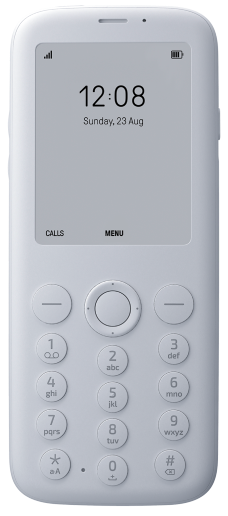
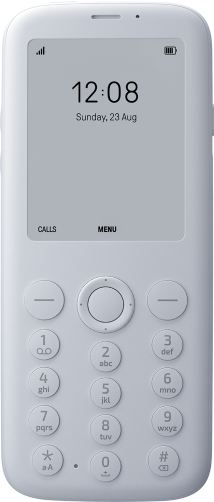
[CP-2162] Replace all Device Image Render - v2

diff --git a/libs/core/discovery-device/components/device-list-item.component.tsx b/libs/core/discovery-device/components/device-list-item.component.tsx
@@ -5,7 +5,7 @@
 
 import React from "react"
 import { defineMessages } from "react-intl"
-import styled from "styled-components"
+import styled, { css } from "styled-components"
 import { FunctionComponent } from "Core/core/types/function-component.interface"
 import { Device } from "Core/device-manager/reducers/device-manager.interface"
 import {
@@ -16,9 +16,7 @@ import {
   transitionTimingFunction,
 } from "Core/core/styles/theming/theme-getters"
 import { DeviceImage } from "Core/overview/components/device-preview/device-image.component"
-import Text, {
-  TextDisplayStyle,
-} from "Core/__deprecated__/renderer/components/core/text/text.component"
+import Text, { TextDisplayStyle } from "Core/__deprecated__/renderer/components/core/text/text.component"
 import { DeviceTestIds } from "Core/overview/components/device-preview/device-preview-test-ids.enum"
 import { intl } from "Core/__deprecated__/renderer/utils/intl"
 import { DeviceType } from "Core/device"
@@ -55,10 +53,7 @@ const Container = styled.div`
   max-width: 34rem;
   border: 0.1rem solid ${borderColor("deviceListSeparator")};
   border-radius: ${borderRadius("medium")};
-  img {
-    max-height: 26.3rem;
-    max-width: 20.5rem;
-  }
+
   &:hover {
     cursor: pointer;
     background-color: ${backgroundColor("main")};
@@ -68,6 +63,22 @@ const Container = styled.div`
       border-color ${transitionTime("quick")}
         ${transitionTimingFunction("smooth")};
   }
+`
+
+export const DeviceImageStyled = styled(DeviceImage)`
+  max-height: 25.4rem;
+  max-width: 20.5rem;
+
+  ${({ deviceType }) => {
+    switch (deviceType) {
+      case DeviceType.MuditaPure:
+        return css`
+          max-height: 25.1rem;
+        `
+      default:
+        return
+    }
+  }}
 `
 
 export const DeviceInfoContainer = styled.div`
@@ -107,7 +118,7 @@ const DeviceListItem: FunctionComponent<DeviceListItemProps> = ({
   return (
     <Container className={className} onClick={() => onDeviceClick(id)}>
       <DeviceImageWrapper>
-        <DeviceImage deviceType={deviceType} />
+        <DeviceImageStyled deviceType={deviceType} />
       </DeviceImageWrapper>
       <DeviceInfoContainer>
         <DeviceInfoDeviceTypeName displayStyle={TextDisplayStyle.Headline4}>

diff --git a/libs/core/overview/components/device-preview/device-image.component.tsx b/libs/core/overview/components/device-preview/device-image.component.tsx
@@ -21,20 +21,21 @@ interface DeviceImageProps {
 export const DeviceImage: FunctionComponent<DeviceImageProps> = ({
   deviceType,
   caseColour,
+  ...props
 }) => {
   if (deviceType === DeviceType.MuditaPure && caseColour === CaseColor.Black) {
-    return <Image src={PureBlackImage} data-testid={DeviceTestIds.PureBlack} />
+    return <Image src={PureBlackImage} data-testid={DeviceTestIds.PureBlack} {...props} />
   }
 
   if (deviceType === DeviceType.MuditaPure) {
-    return <Image src={PureGrayImage} data-testid={DeviceTestIds.PureGray} />
+    return <Image src={PureGrayImage} data-testid={DeviceTestIds.PureGray} {...props}/>
   }
 
   if (deviceType === DeviceType.MuditaHarmony) {
-    return <Image src={HarmonyGrayImage} />
+    return <Image src={HarmonyGrayImage} {...props}/>
   }
   if (deviceType === DeviceType.MuditaKompakt) {
-    return <Image src={KompaktGrayImage} />
+    return <Image src={KompaktGrayImage} {...props}/>
   }
 
   return <></>
